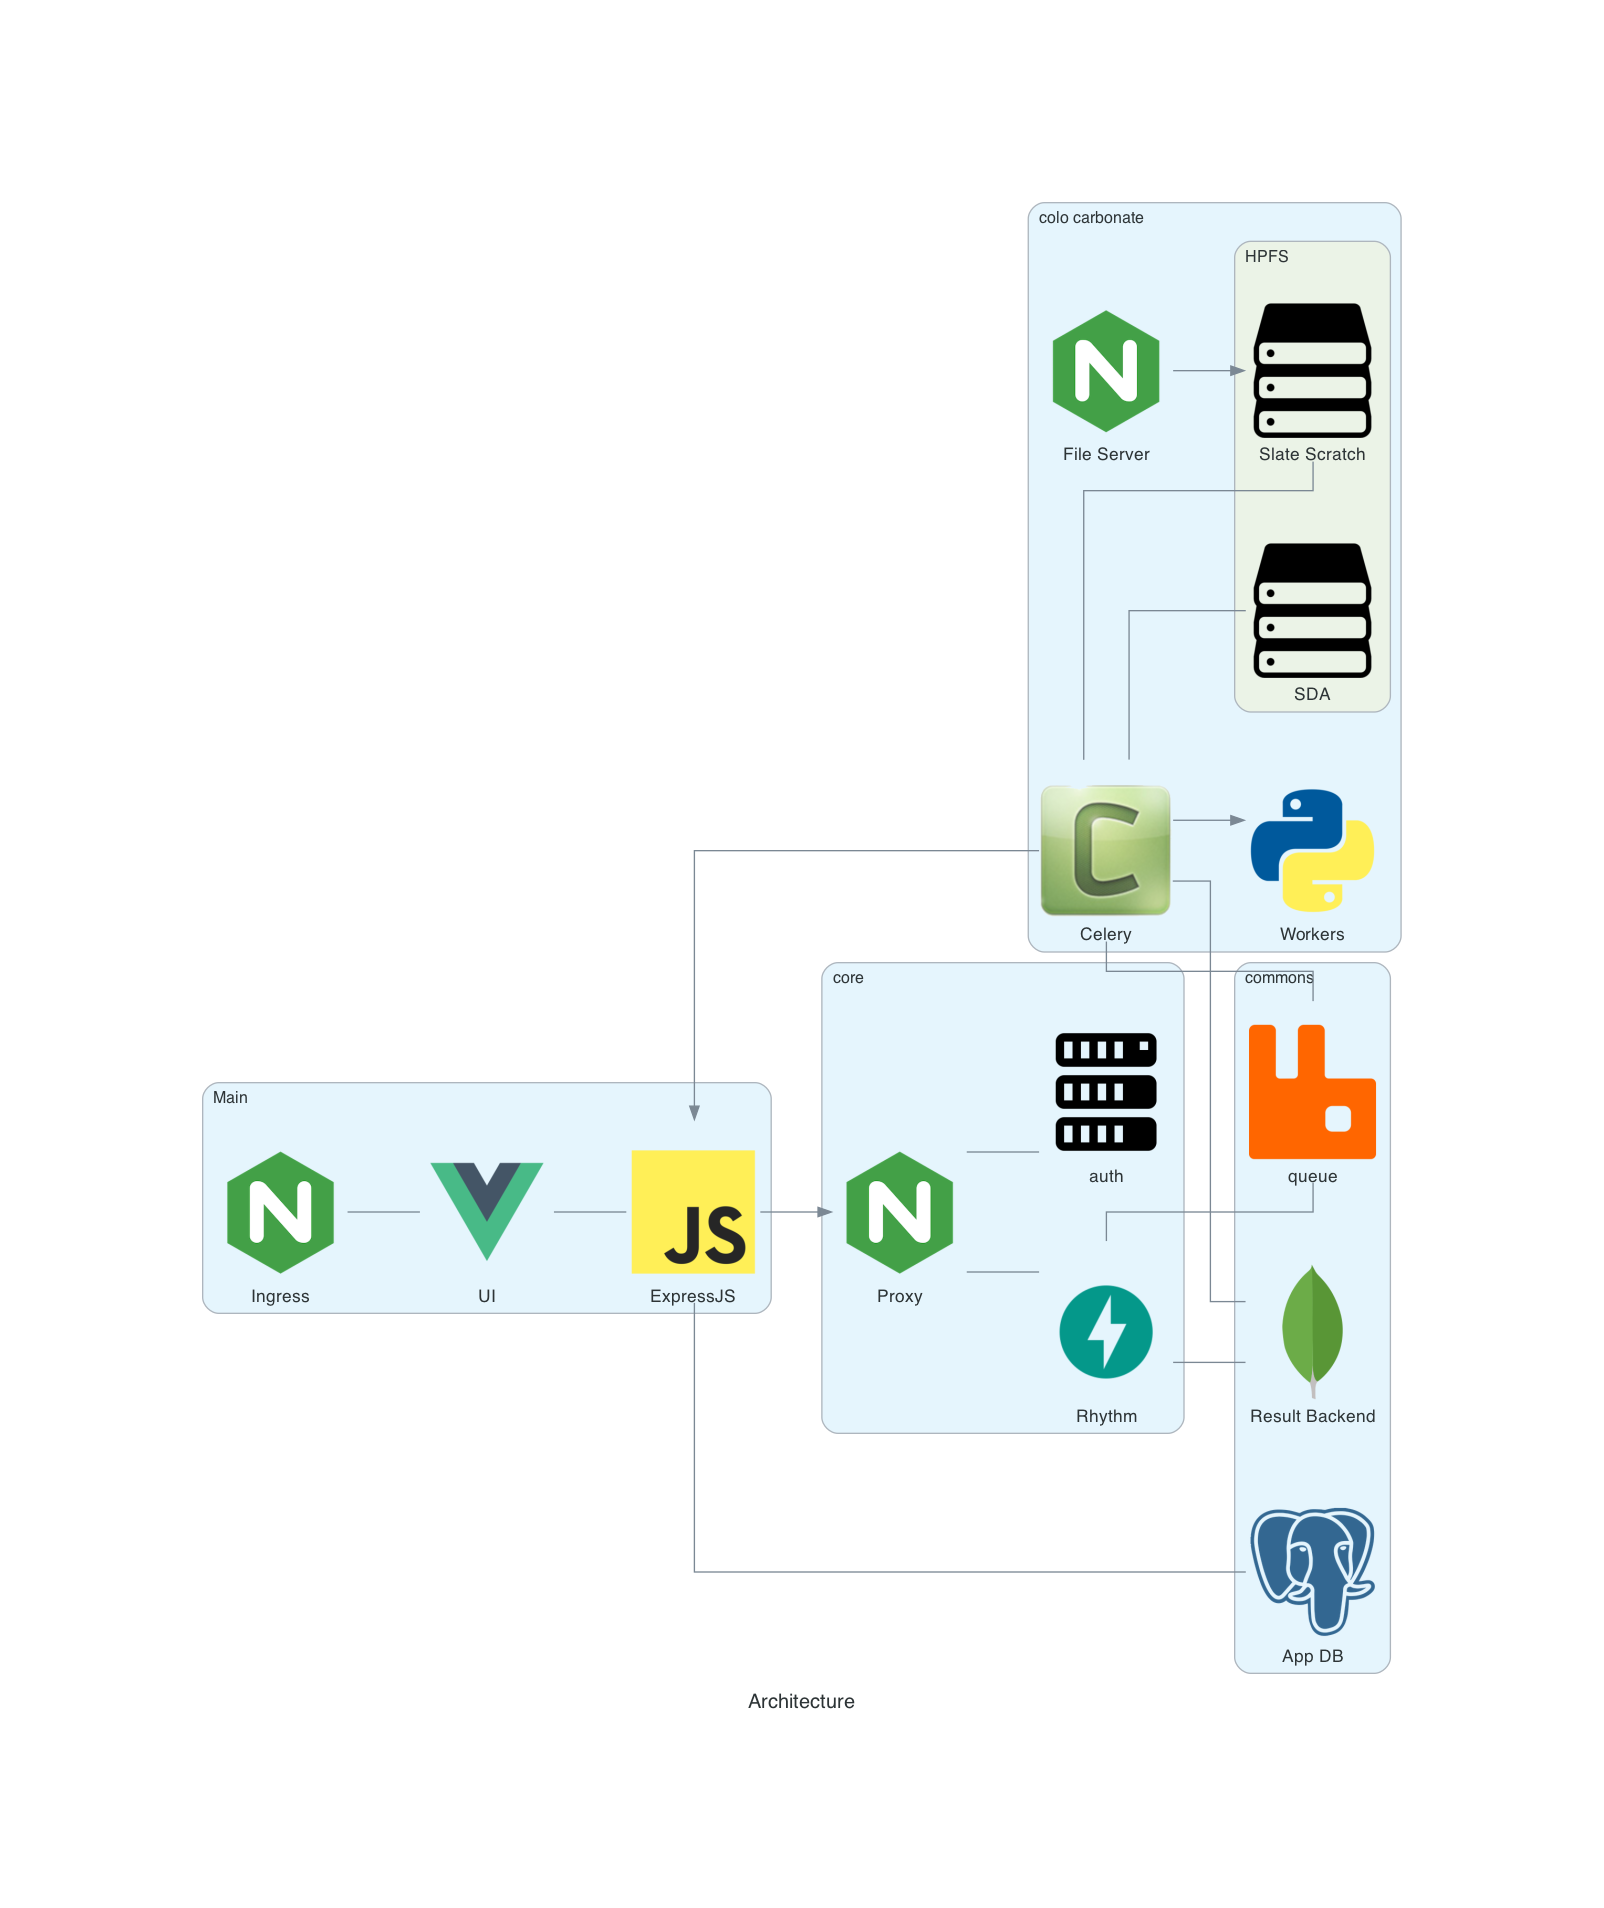
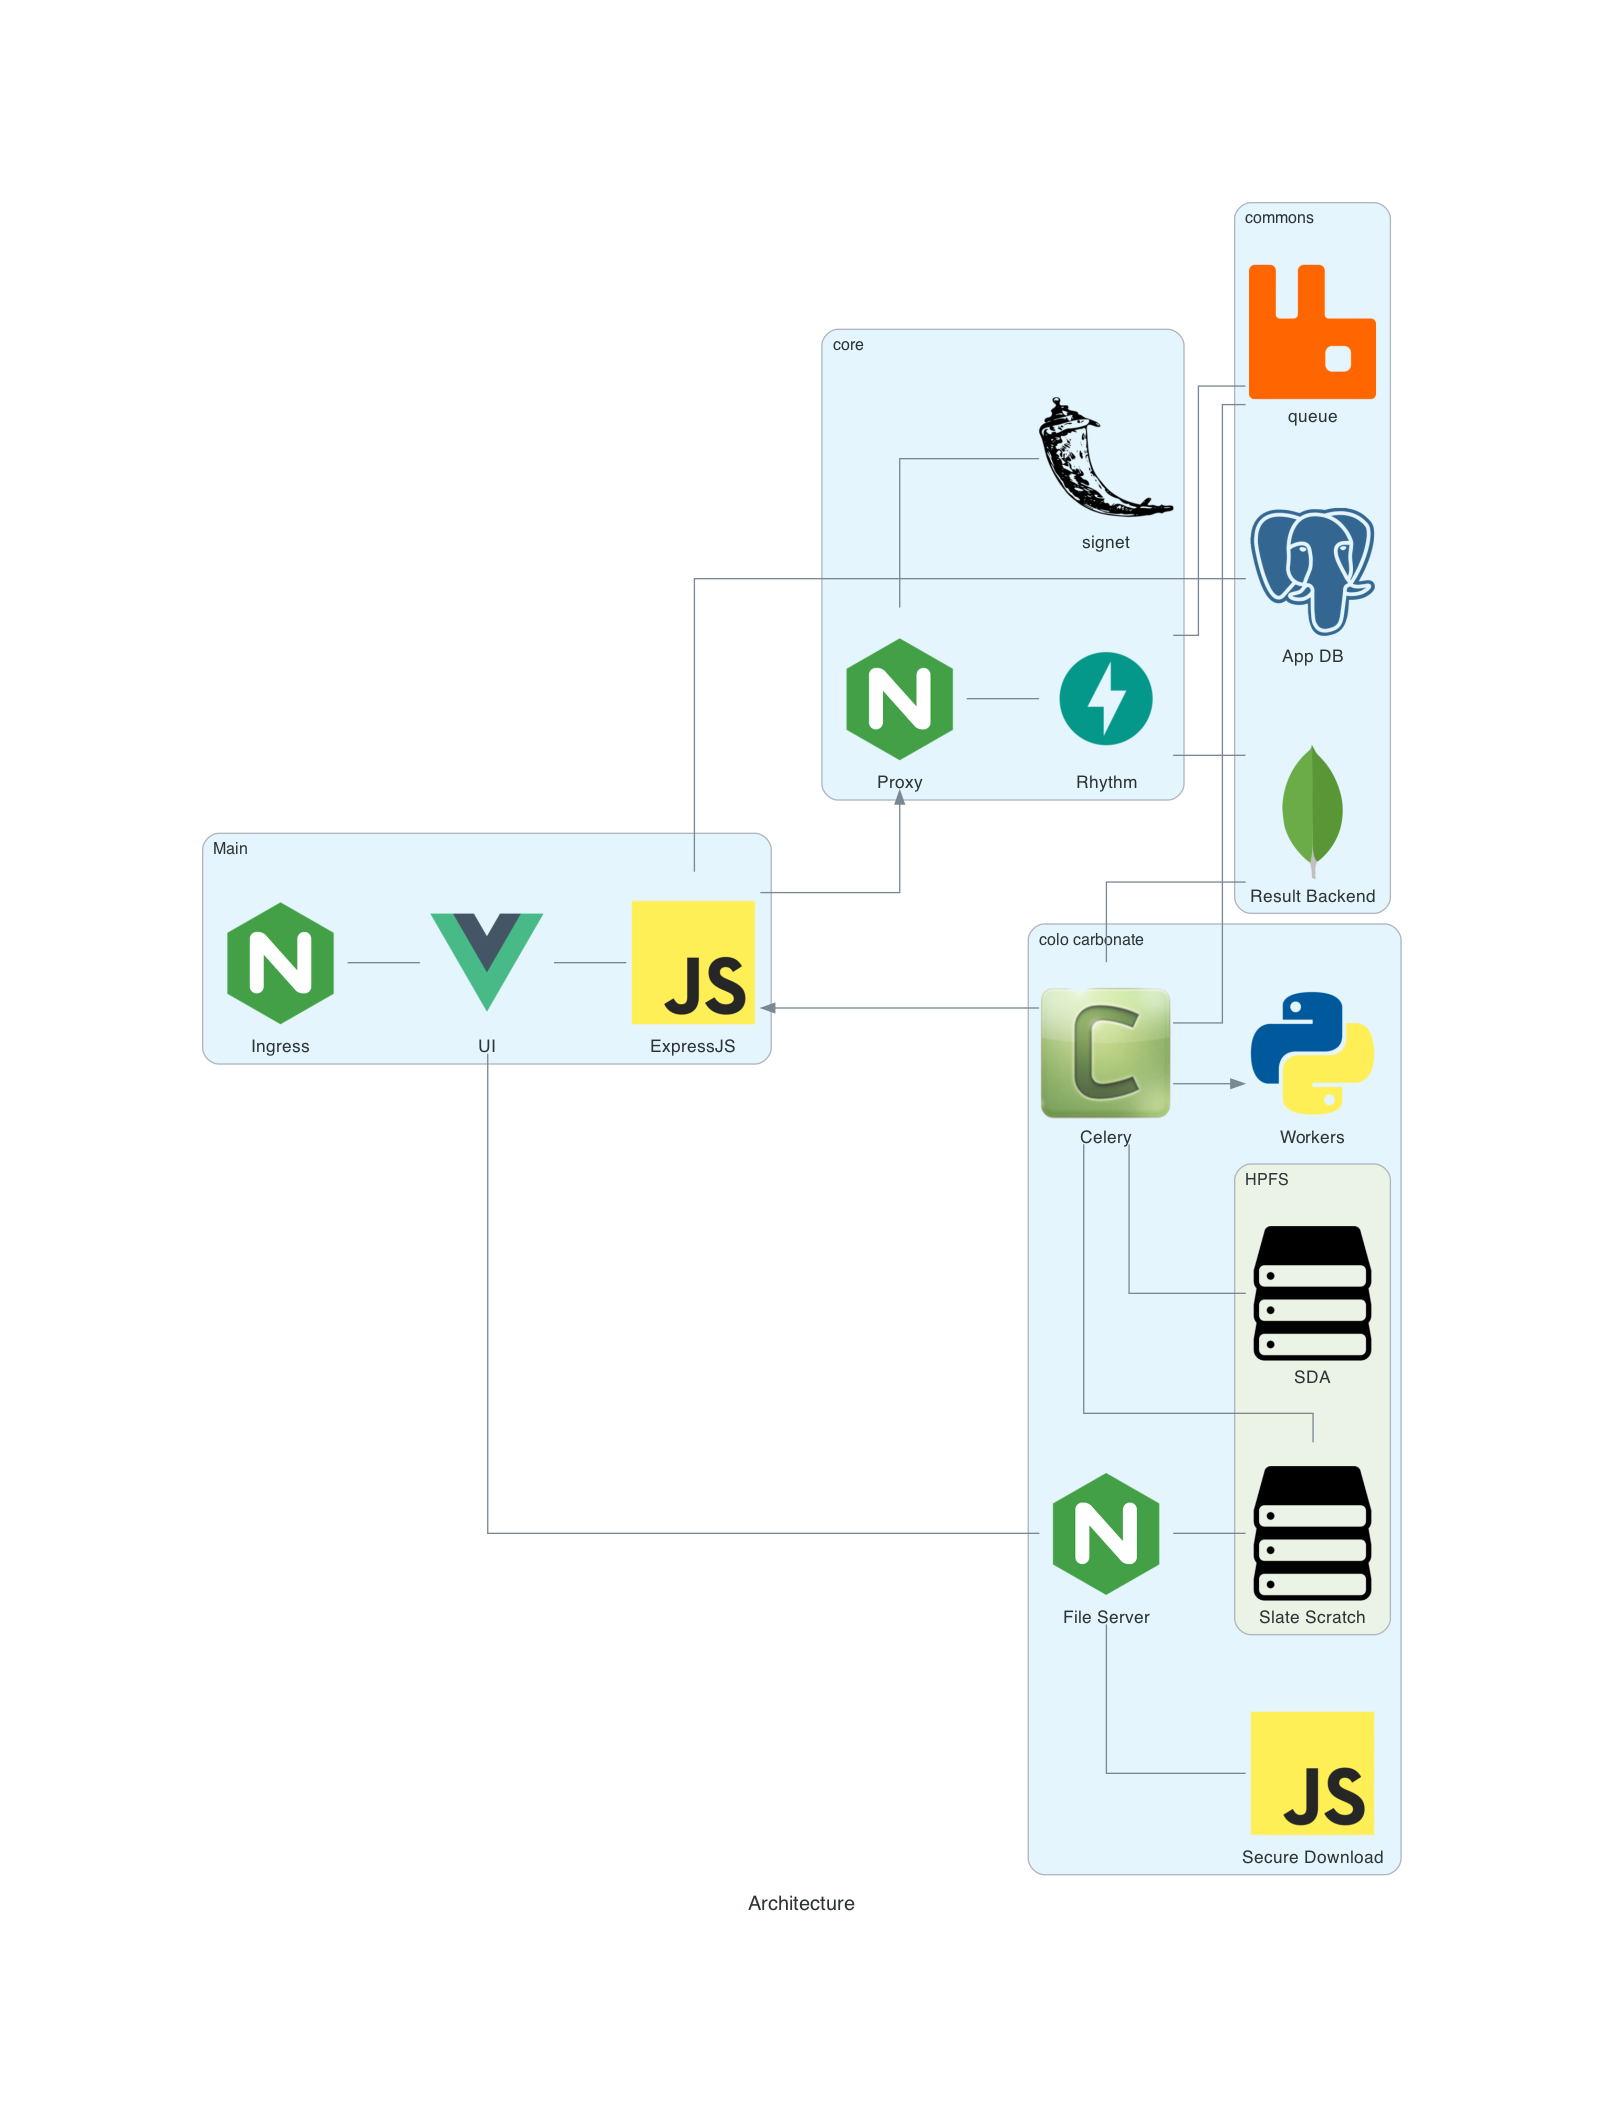
update architecture diagram

Changed region(s): [[0.1247, 0.0928, 0.8728, 0.8968], [0.4676, 0.8658, 0.5299, 0.9277]]

diff --git a/ui/src/App.vue b/ui/src/App.vue
@@ -22,21 +22,25 @@ const toast = useToastStore();
 toast.setup(useToast());
 
 onMounted(() => {
-  setupTheme()
-})
+  setupTheme();
+});
 
-watch(auth.user.theme, () => {
-  setupTheme()
-}, { deep: true })
+watch(
+  auth.user.theme,
+  () => {
+    setupTheme();
+  },
+  { deep: true }
+);
 
 const setupTheme = () => {
-  if ('user' in auth && 'theme' in auth.user) {
+  if ("user" in auth && "theme" in auth.user) {
     const { applyPreset, colors } = useColors();
 
-    applyPreset(auth.user?.theme?.mode)
-    colors.primary = auth.user.theme?.primary
+    applyPreset(auth.user?.theme?.mode);
+    colors.primary = auth.user.theme?.primary;
   }
-}
+};
 
 onBeforeMount(() => {
   auth.initialize();

diff --git a/ui/src/pages/profile.vue b/ui/src/pages/profile.vue
@@ -82,13 +82,16 @@ const switchValue = computed({
 
 const profile = auth.user;
 
-watch([colors, switchValue], () => {
-  auth.setTheme({
-    primary: colors.primary,
-    mode: switchValue.value
-  });
-}, { deep: true })
-
+watch(
+  [colors, switchValue],
+  () => {
+    auth.setTheme({
+      primary: colors.primary,
+      mode: switchValue.value,
+    });
+  },
+  { deep: true }
+);
 </script>
 
 <route lang="yaml">

diff --git a/ui/src/stores/auth.js b/ui/src/stores/auth.js
@@ -117,9 +117,9 @@ export const useAuthStore = defineStore("auth", () => {
     });
   }
 
-  const setTheme = theme => {
+  const setTheme = (theme) => {
     user.value.theme = theme;
-  }
+  };
 
   const getTheme = () => user.value.theme;
 
@@ -136,7 +136,7 @@ export const useAuthStore = defineStore("auth", () => {
     canOperate,
     canAdmin,
     setTheme,
-    getTheme
+    getTheme,
   };
 });
 

diff --git a/api/src/routes/workflows.js b/api/src/routes/workflows.js
@@ -83,6 +83,8 @@ router.delete(
         where: {
           id: req.params.id,
         },
+      }).catch((err) => {
+        console.warn('Unable to delete workflow from the app database', err);
       });
       res.json(api_res.data);
     },

diff --git a/docs/arch_diagram.py b/docs/arch_diagram.py
@@ -4,7 +4,7 @@ from diagrams.onprem.compute import Server
 from diagrams.onprem.database import Mongodb, Postgresql
 from diagrams.onprem.network import Nginx
 from diagrams.onprem.queue import Rabbitmq, Celery
-from diagrams.programming.framework import Vue, Fastapi
+from diagrams.programming.framework import Vue, Fastapi, Flask
 from diagrams.programming.language import Javascript, Python
 
 with Diagram("Architecture", show=False) as diag:
@@ -19,15 +19,17 @@ with Diagram("Architecture", show=False) as diag:
     celery = Celery("Celery")
     workers = Python("Workers")
     file_server = Nginx("File Server")
+    secure_download = Javascript("Secure Download")
 
     celery >> workers
+    file_server - secure_download
 
     with Cluster("HPFS"):
       sda = Storage("SDA")
       scratch = Storage("Slate Scratch")
       celery - sda
       celery - scratch
-      file_server >> scratch
+      file_server - scratch
 
   with Cluster("commons"):
     app_db = Postgresql("App DB")
@@ -38,7 +40,7 @@ with Diagram("Architecture", show=False) as diag:
     core_reverse_proxy = Nginx("Proxy")
     rhythm_api = Fastapi("Rhythm")
     core_reverse_proxy - rhythm_api
-    auth = Server("auth")
+    auth = Flask("signet")
     core_reverse_proxy - auth
 
   app_api - app_db
@@ -48,3 +50,4 @@ with Diagram("Architecture", show=False) as diag:
   celery - celery_db
   rhythm_api - celery_queue
   rhythm_api - celery_db
+  ui - file_server

diff --git a/docs/README.md b/docs/README.md
@@ -2,6 +2,8 @@ Made with https://diagrams.mingrammer.com/
 
 Create diagram:
 ```bash
-cd docs
+cd workers
+poetry shell
+cd ../docs
 python arch_diagram.py
 ```
